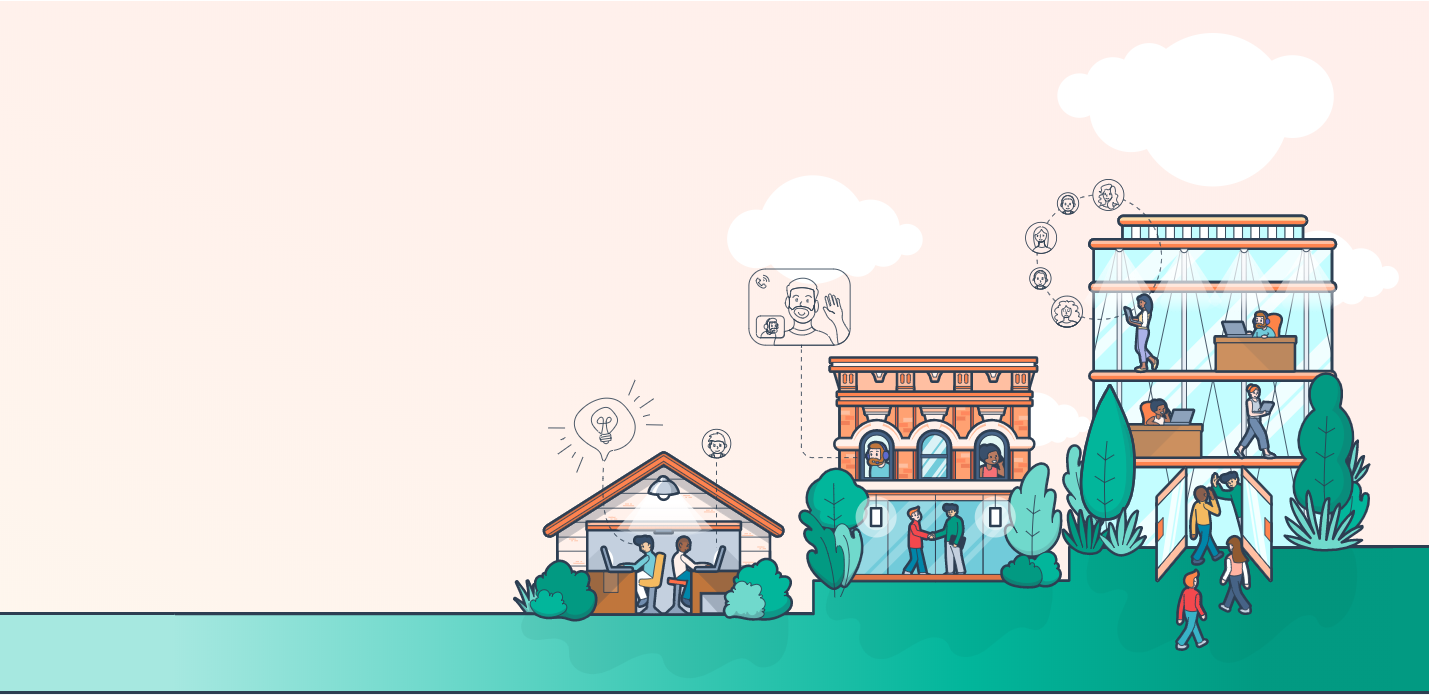
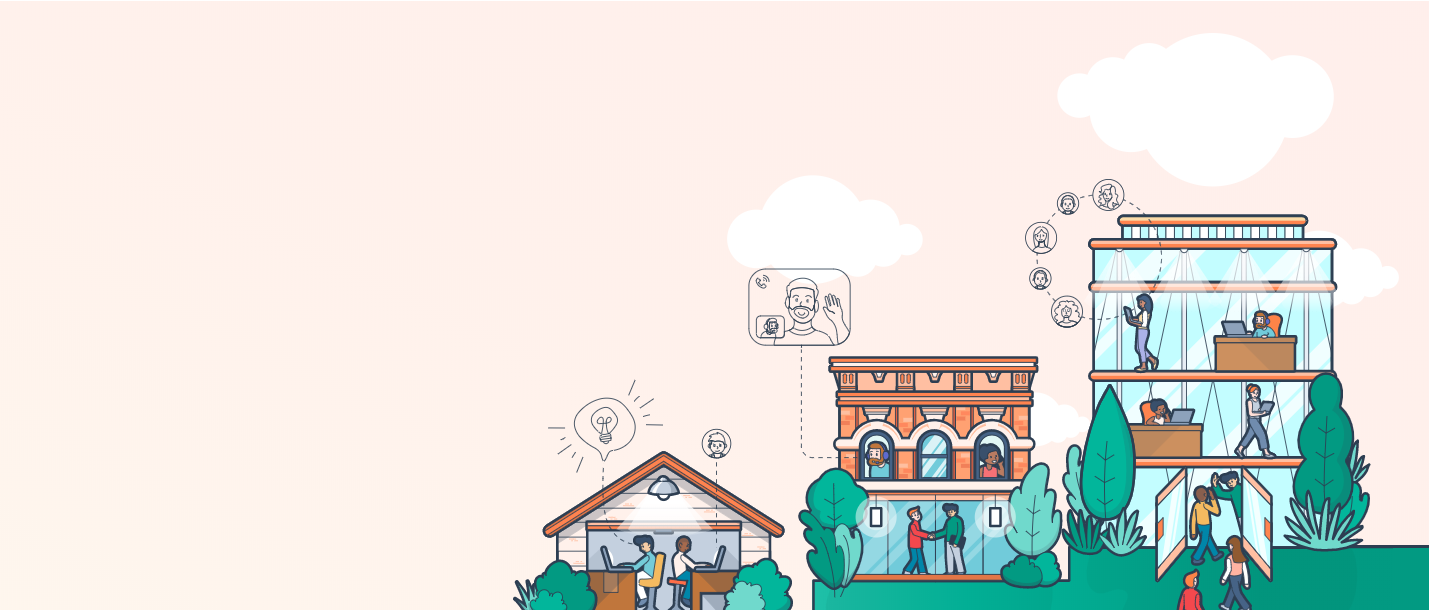
header section compleated

Changed region(s): [[0.0, 0.2492, 1.0, 1.0], [0.4927, 0.623, 0.5234, 0.6541]]

diff --git a/assets/css/style.css b/assets/css/style.css
@@ -28,7 +28,10 @@ header .bg_lightblue {
 }
 
 .bg_pink {
-  background-color: #FDF2EE;
+  background-image: url(../img/jumbotron.png);
+  background-color: #FEF6EF;
+  background-position: right;
+  background-repeat: no-repeat;
 }
 
 .bg_water {
@@ -59,7 +62,7 @@ header .bg_lightblue {
   float: right;
 }
 
-nav a {
+a {
   text-transform: capitalize;
   text-decoration: none;
   color: #32495B;
@@ -69,15 +72,22 @@ nav a {
   line-height: 80px;
 }
 
-nav a:hover {
+a:hover {
   text-decoration: underline;
   color: #06A4BD;
 
 }
 
-nav a i {
+a i {
   padding-left: 10px;
   text-align: center;
+}
+
+.btn_orange {
+  color: white;
+  background-color: #FE785A;
+  border-radius: 5px;
+  padding: 20px 40px;
 }
 /* utility selector */
 
@@ -129,7 +139,7 @@ transform: translateY(-50%);
   margin: 0 15px;
 }
 
-.btn_orange {
+nav .btn_orange {
   color: white;
   background-color: #FE785A;
   border-radius: 5px;
@@ -146,6 +156,32 @@ transform: translateY(-50%);
 /* header */
 .hero_header {
   height: 610px;
+
+}
+
+.hero_text {
+  width: 665px;
+  padding-top: 60px;
+}
+
+.hero_text h1 {
+  color: #32495B;
+  font-size: 50px;
+  margin-bottom: 30px;
+}
+
+.hero_text p {
+  color: #32495B;
+  font-size: 16px;
+  margin-bottom: 30px;
+  line-height: 30px;
+}
+
+.hero_text h6 {
+  color: #32495B;
+  font-size: 12px;
+  font-weight: lighter;
+  margin-top: 30px;
 }
 
 .bottom_header {

diff --git a/index.html b/index.html
@@ -46,7 +46,13 @@
 
       <!-- hero_header -->
       <div class="bg_pink">
-        <div class="hero_header container clearfix">
+        <div class="hero_header container">
+          <div class="hero_text">
+            <h1>There's a better way to grow.</h1>
+            <p>Marketing, sales, and service software that helps your business grow without compromise. Because “good for the business” should also mean “good for the customer.”</p>
+            <a href="#" class="btn_orange">GetHubspotFree</a>
+            <h6>Get started with FREE tools, and upgrade as you grow.</h6>
+          </div>
         </div>
       </div>
       <!-- /hero_header -->
